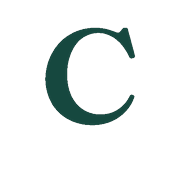
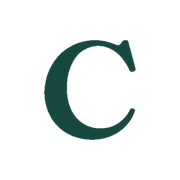
Íconos PWA opacos y centrados; botones del menú sin fondo por defecto
Los íconos eran transparentes y iOS los rellenaba de negro (además la C
estaba descentrada). Los <button class="menu-link"> heredaban el fondo gris
del navegador y el texto quedaba ilegible.

Claude-Session: https://claude.ai/code/session_019wFyivKRx5uemYAoz9mUQe

Changed region(s): [[0.2222, 0.1389, 0.7778, 0.7778]]

diff --git a/src/index.css b/src/index.css
@@ -224,6 +224,20 @@ a {
   transition: background 0.15s ease;
 }
 
+/* Cuando el enlace del menú es un <button> (Compartir, Agregar a inicio),
+   iOS le pone su fondo gris por defecto: se resetea para que se vea igual
+   que los demás enlaces, en claro y en oscuro. */
+button.menu-link {
+  width: 100%;
+  background: none;
+  border: none;
+  font-family: inherit;
+  text-align: left;
+  cursor: pointer;
+  -webkit-appearance: none;
+  appearance: none;
+}
+
 .menu-link svg { opacity: 0.6; flex-shrink: 0; }
 
 .menu-link:hover { background: rgba(42, 38, 32, 0.05); }
